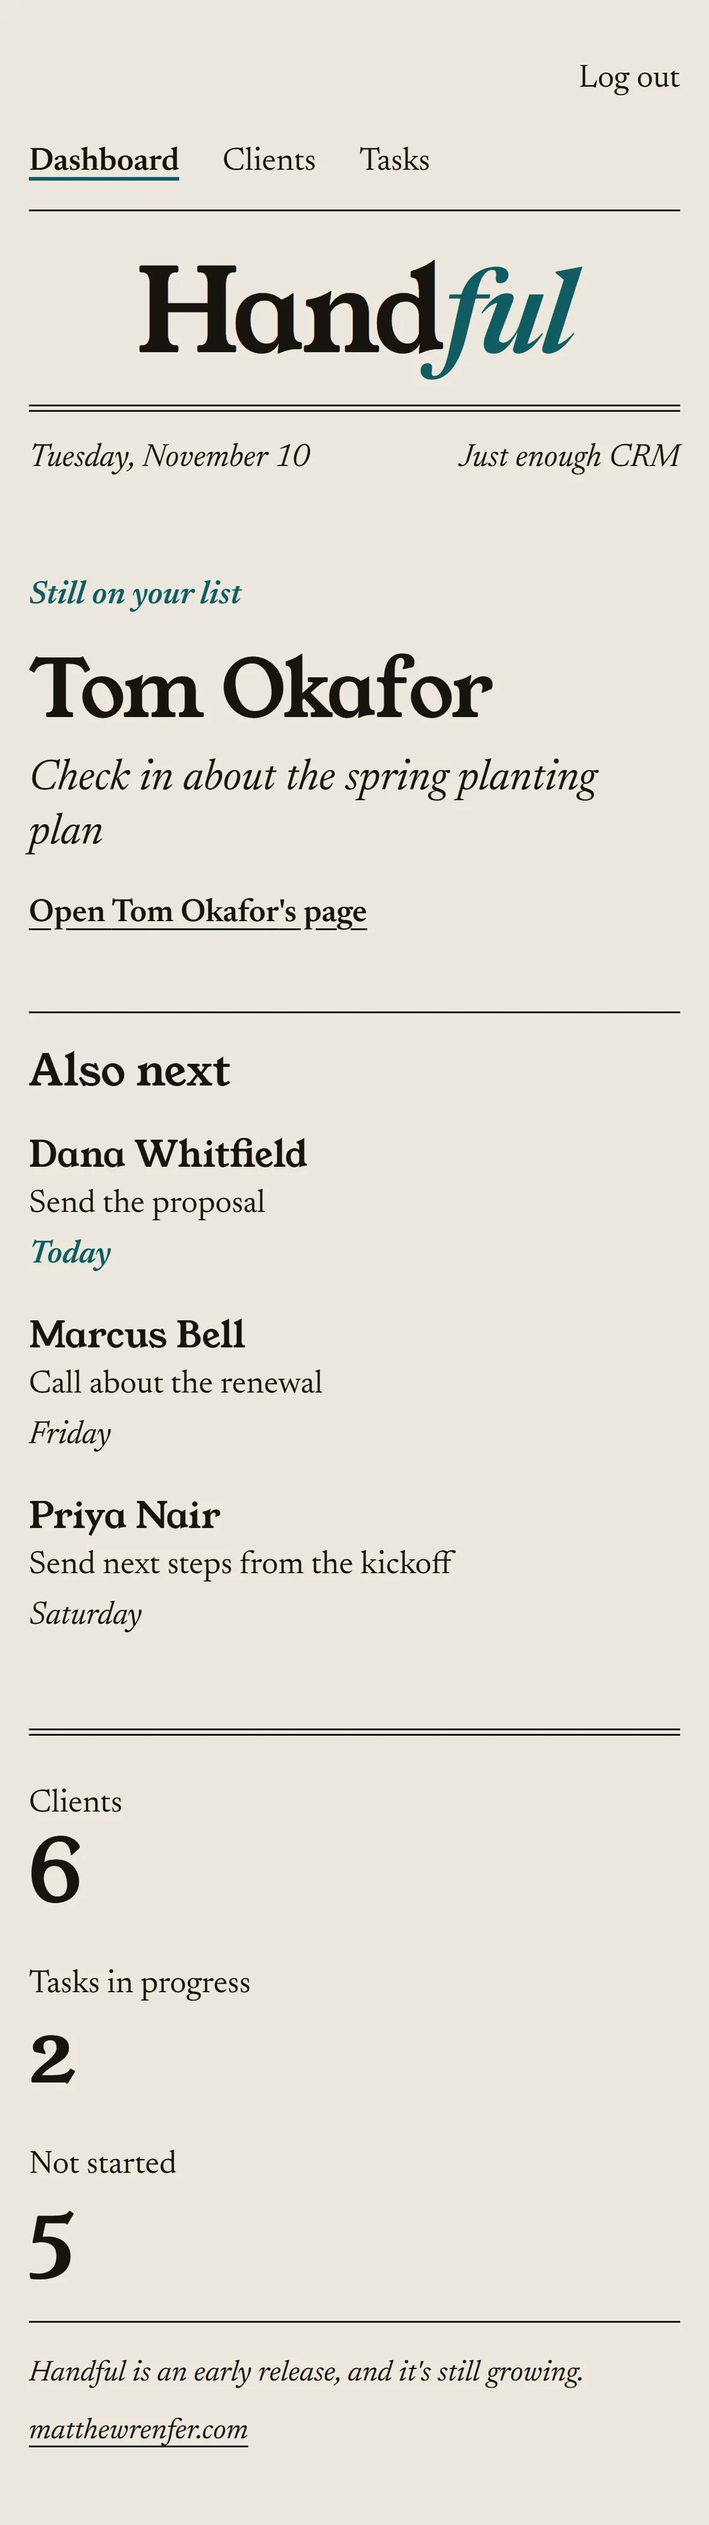
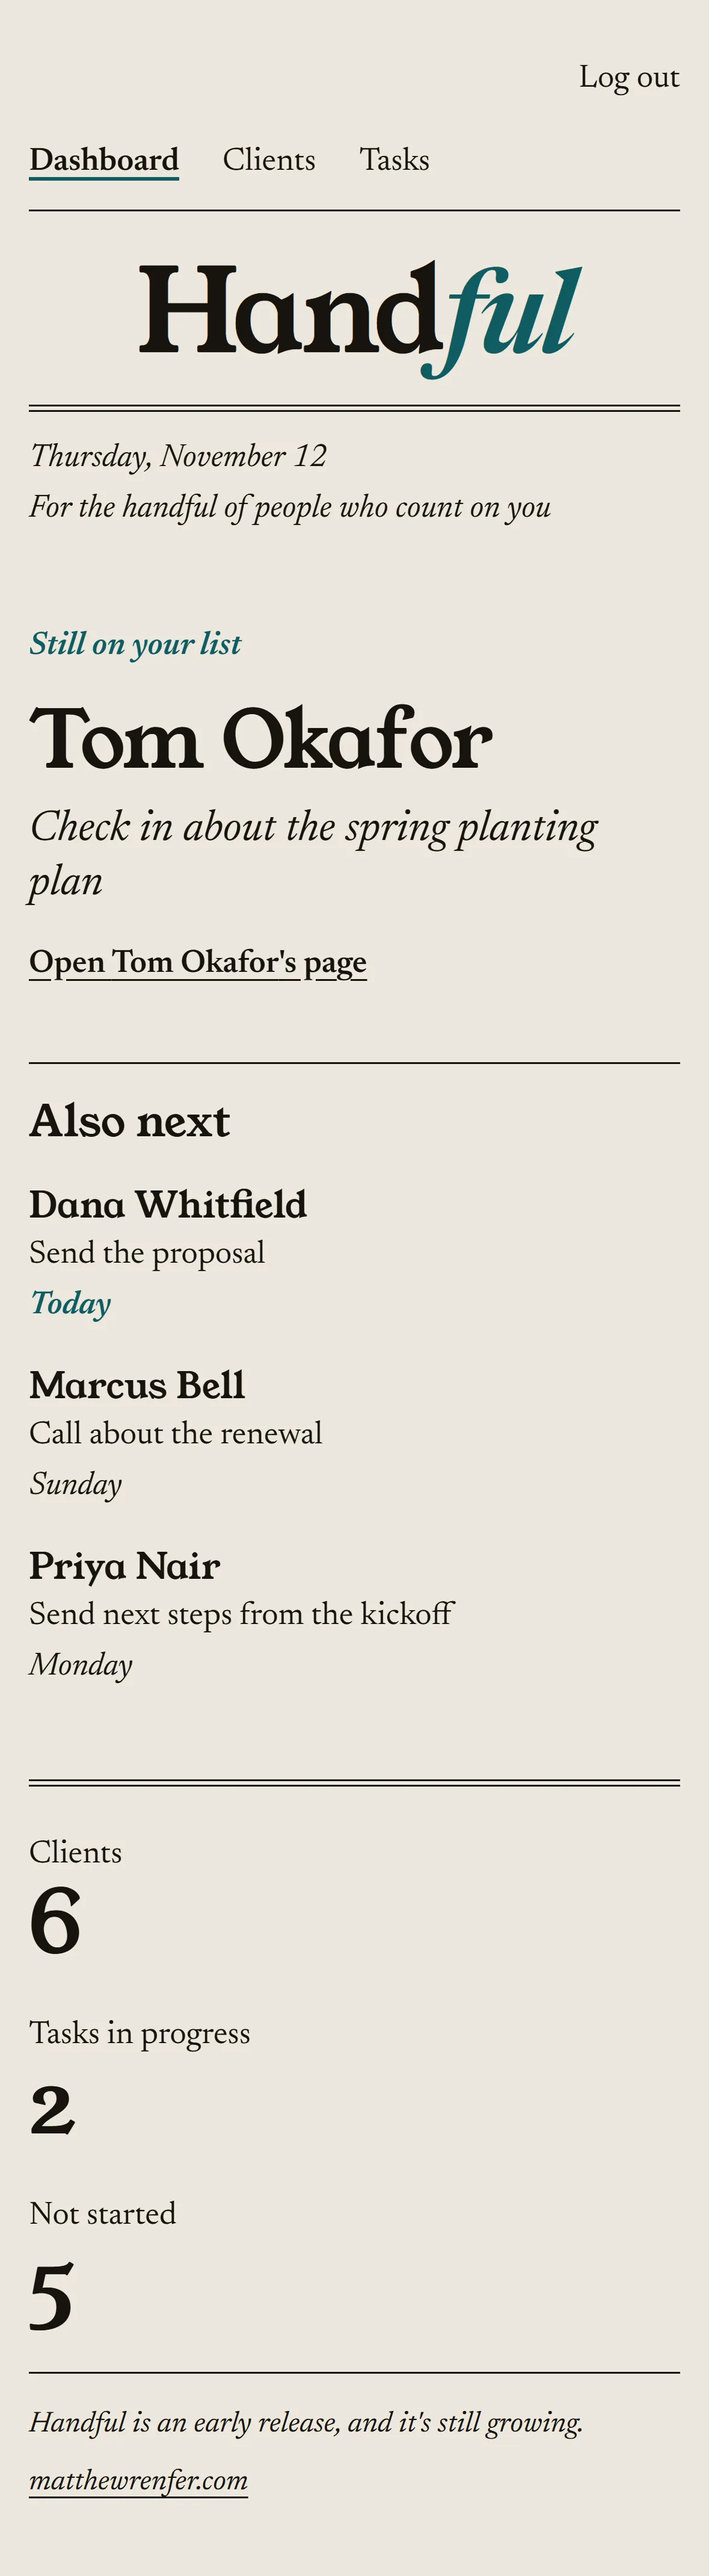
Handful: new screenshots with the new tagline
All nine showcase screenshots come from the 2x-tagline set, where the
app's masthead reads "For the handful of people who count on you"
instead of "Just enough CRM". The phone dashboard screenshots are taller
(4278px), so their sizes are updated. Also remade the portfolio
thumbnail and the LinkedIn preview image (share.jpg) from the new
dashboard. The alt text still matches the new images.

Claude-Session: https://claude.ai/code/session_01LraDCEjSZaLSrQBSK14HoU

diff --git a/app/portfolio/handful/page.js b/app/portfolio/handful/page.js
@@ -90,7 +90,7 @@ const FEATURES = [
         phone: {
             src: 'phone-dashboard.webp',
             width: 1179,
-            height: 4194,
+            height: 4278,
             alt: "Handful's dashboard on a phone. Tom Okafor is the lead story.",
         },
     },
@@ -149,13 +149,13 @@ const FEATURES = [
         desktop: {
             src: 'phone-dark.webp',
             width: 1179,
-            height: 4194,
+            height: 4278,
             alt: "Handful's dashboard on a phone in dark mode, with cream type on near-black.",
         },
         phone: {
             src: 'phone-dark.webp',
             width: 1179,
-            height: 4194,
+            height: 4278,
             alt: "Handful's dashboard on a phone in dark mode, with cream type on near-black.",
         },
     },
